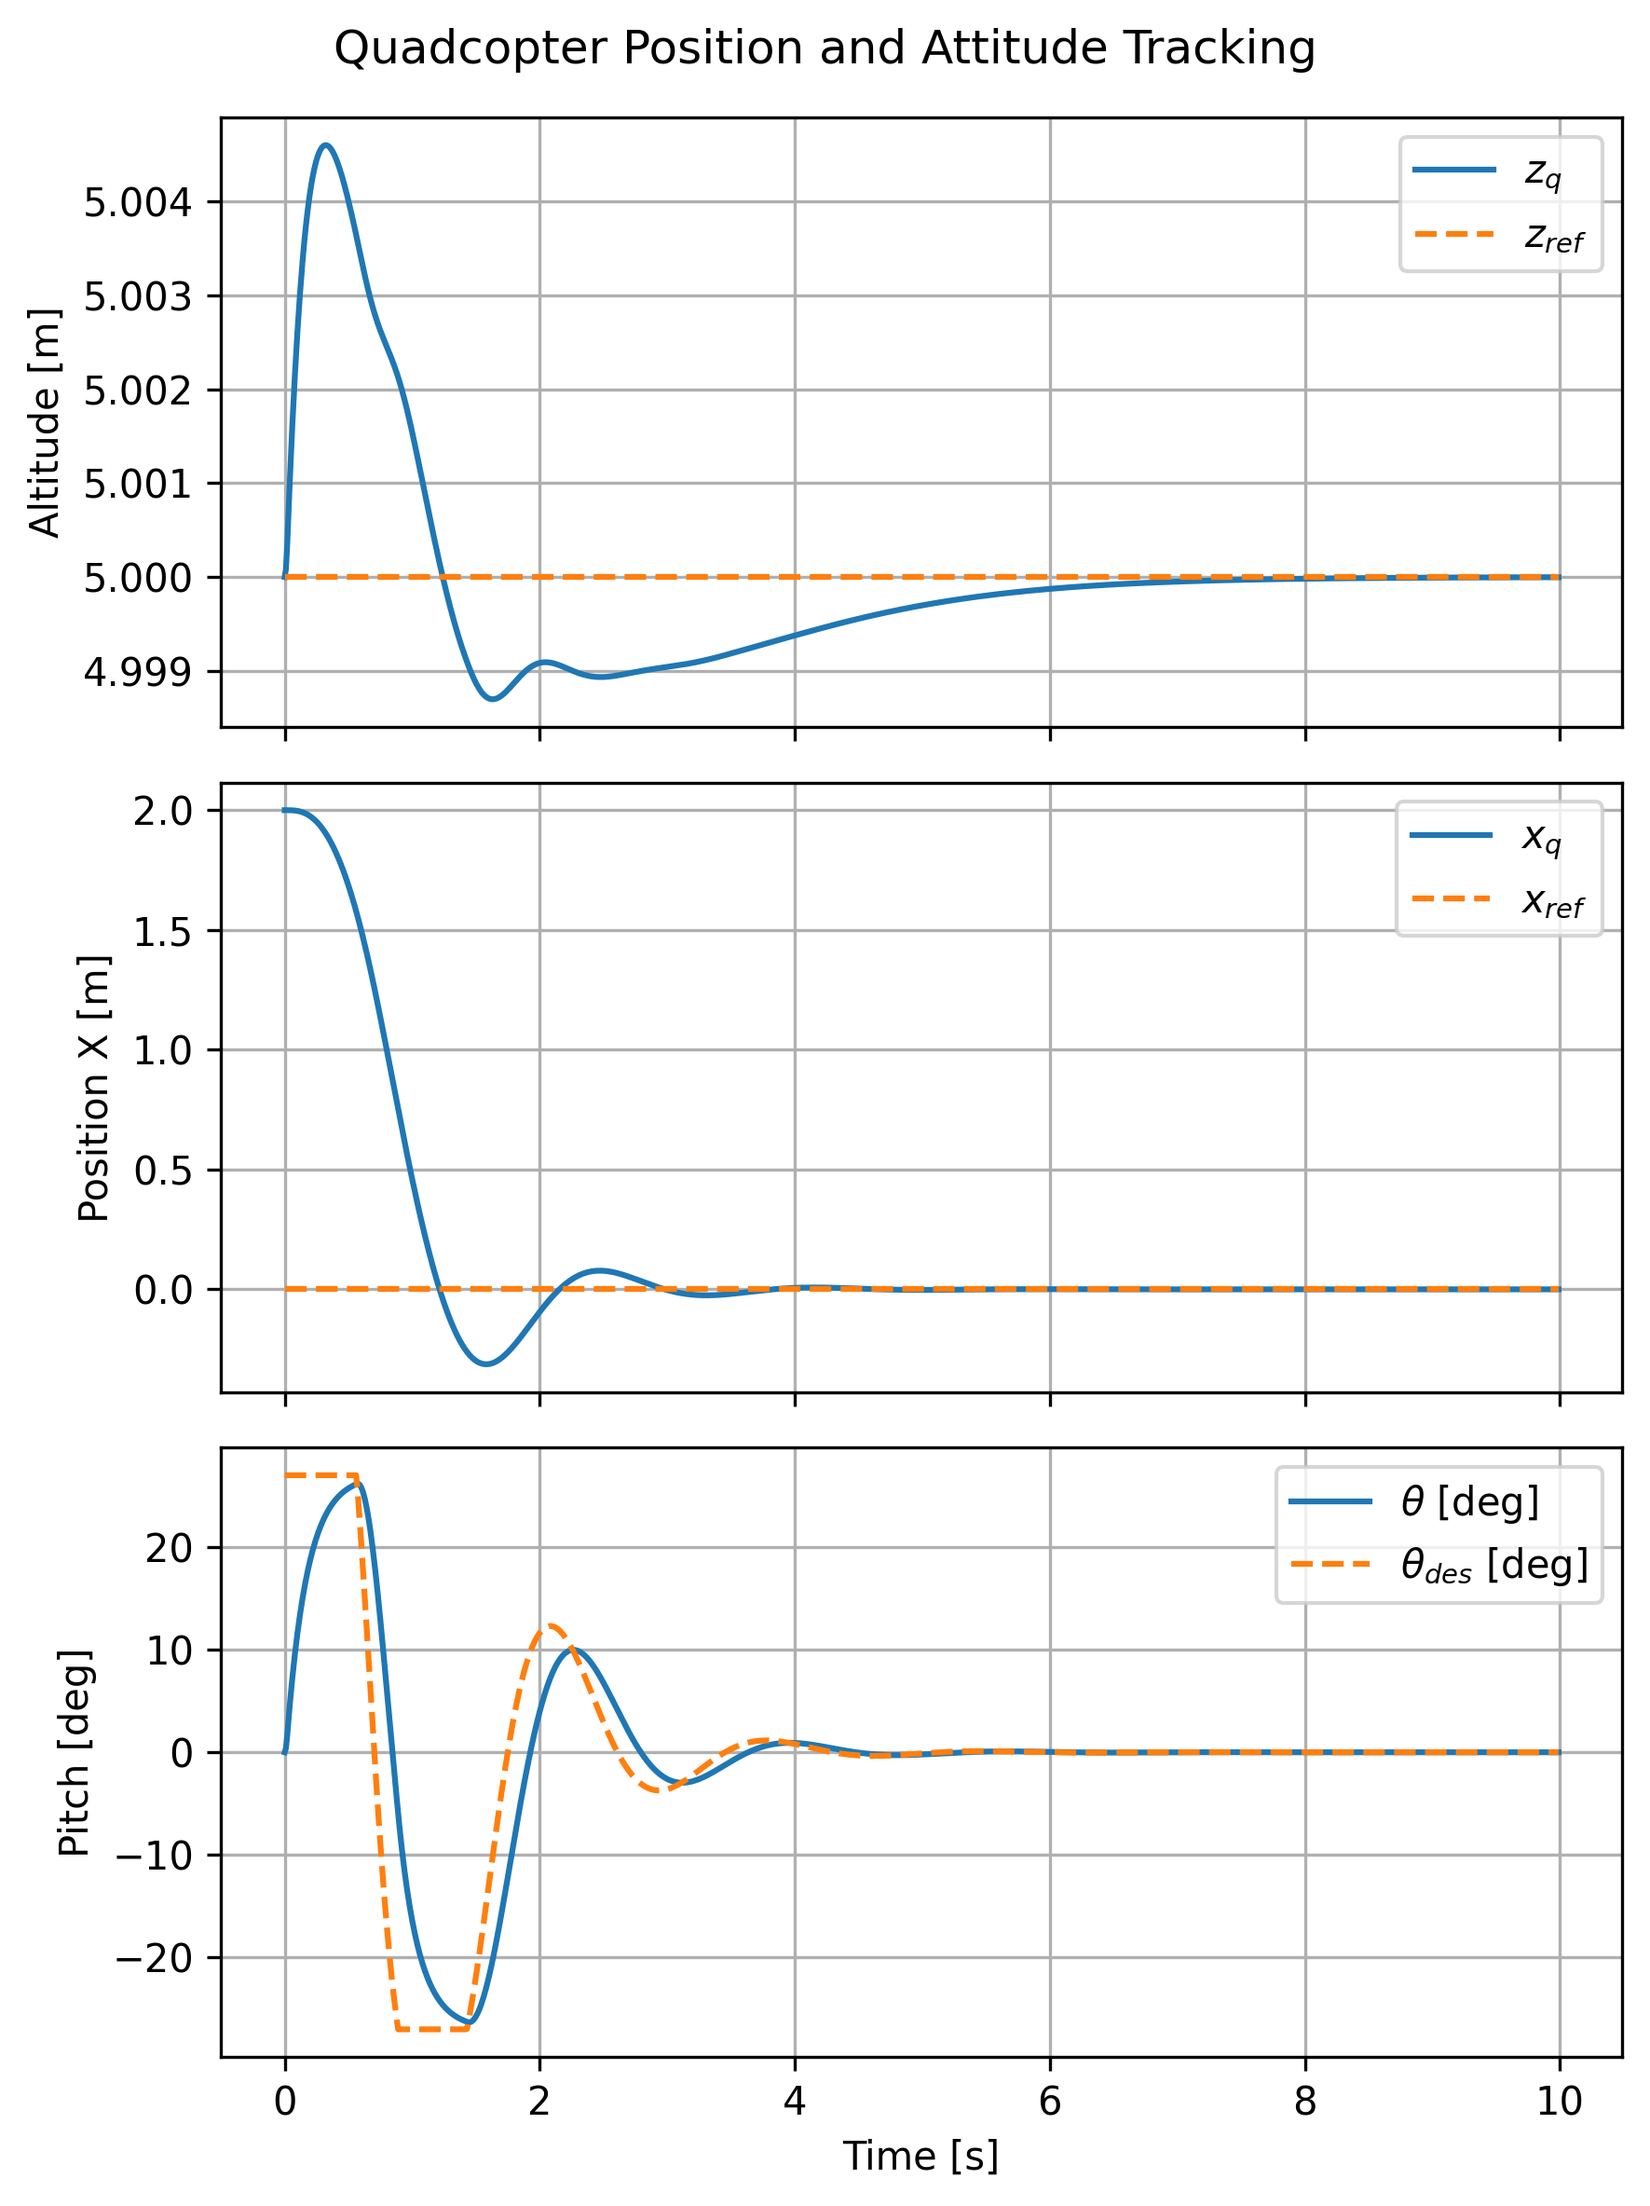
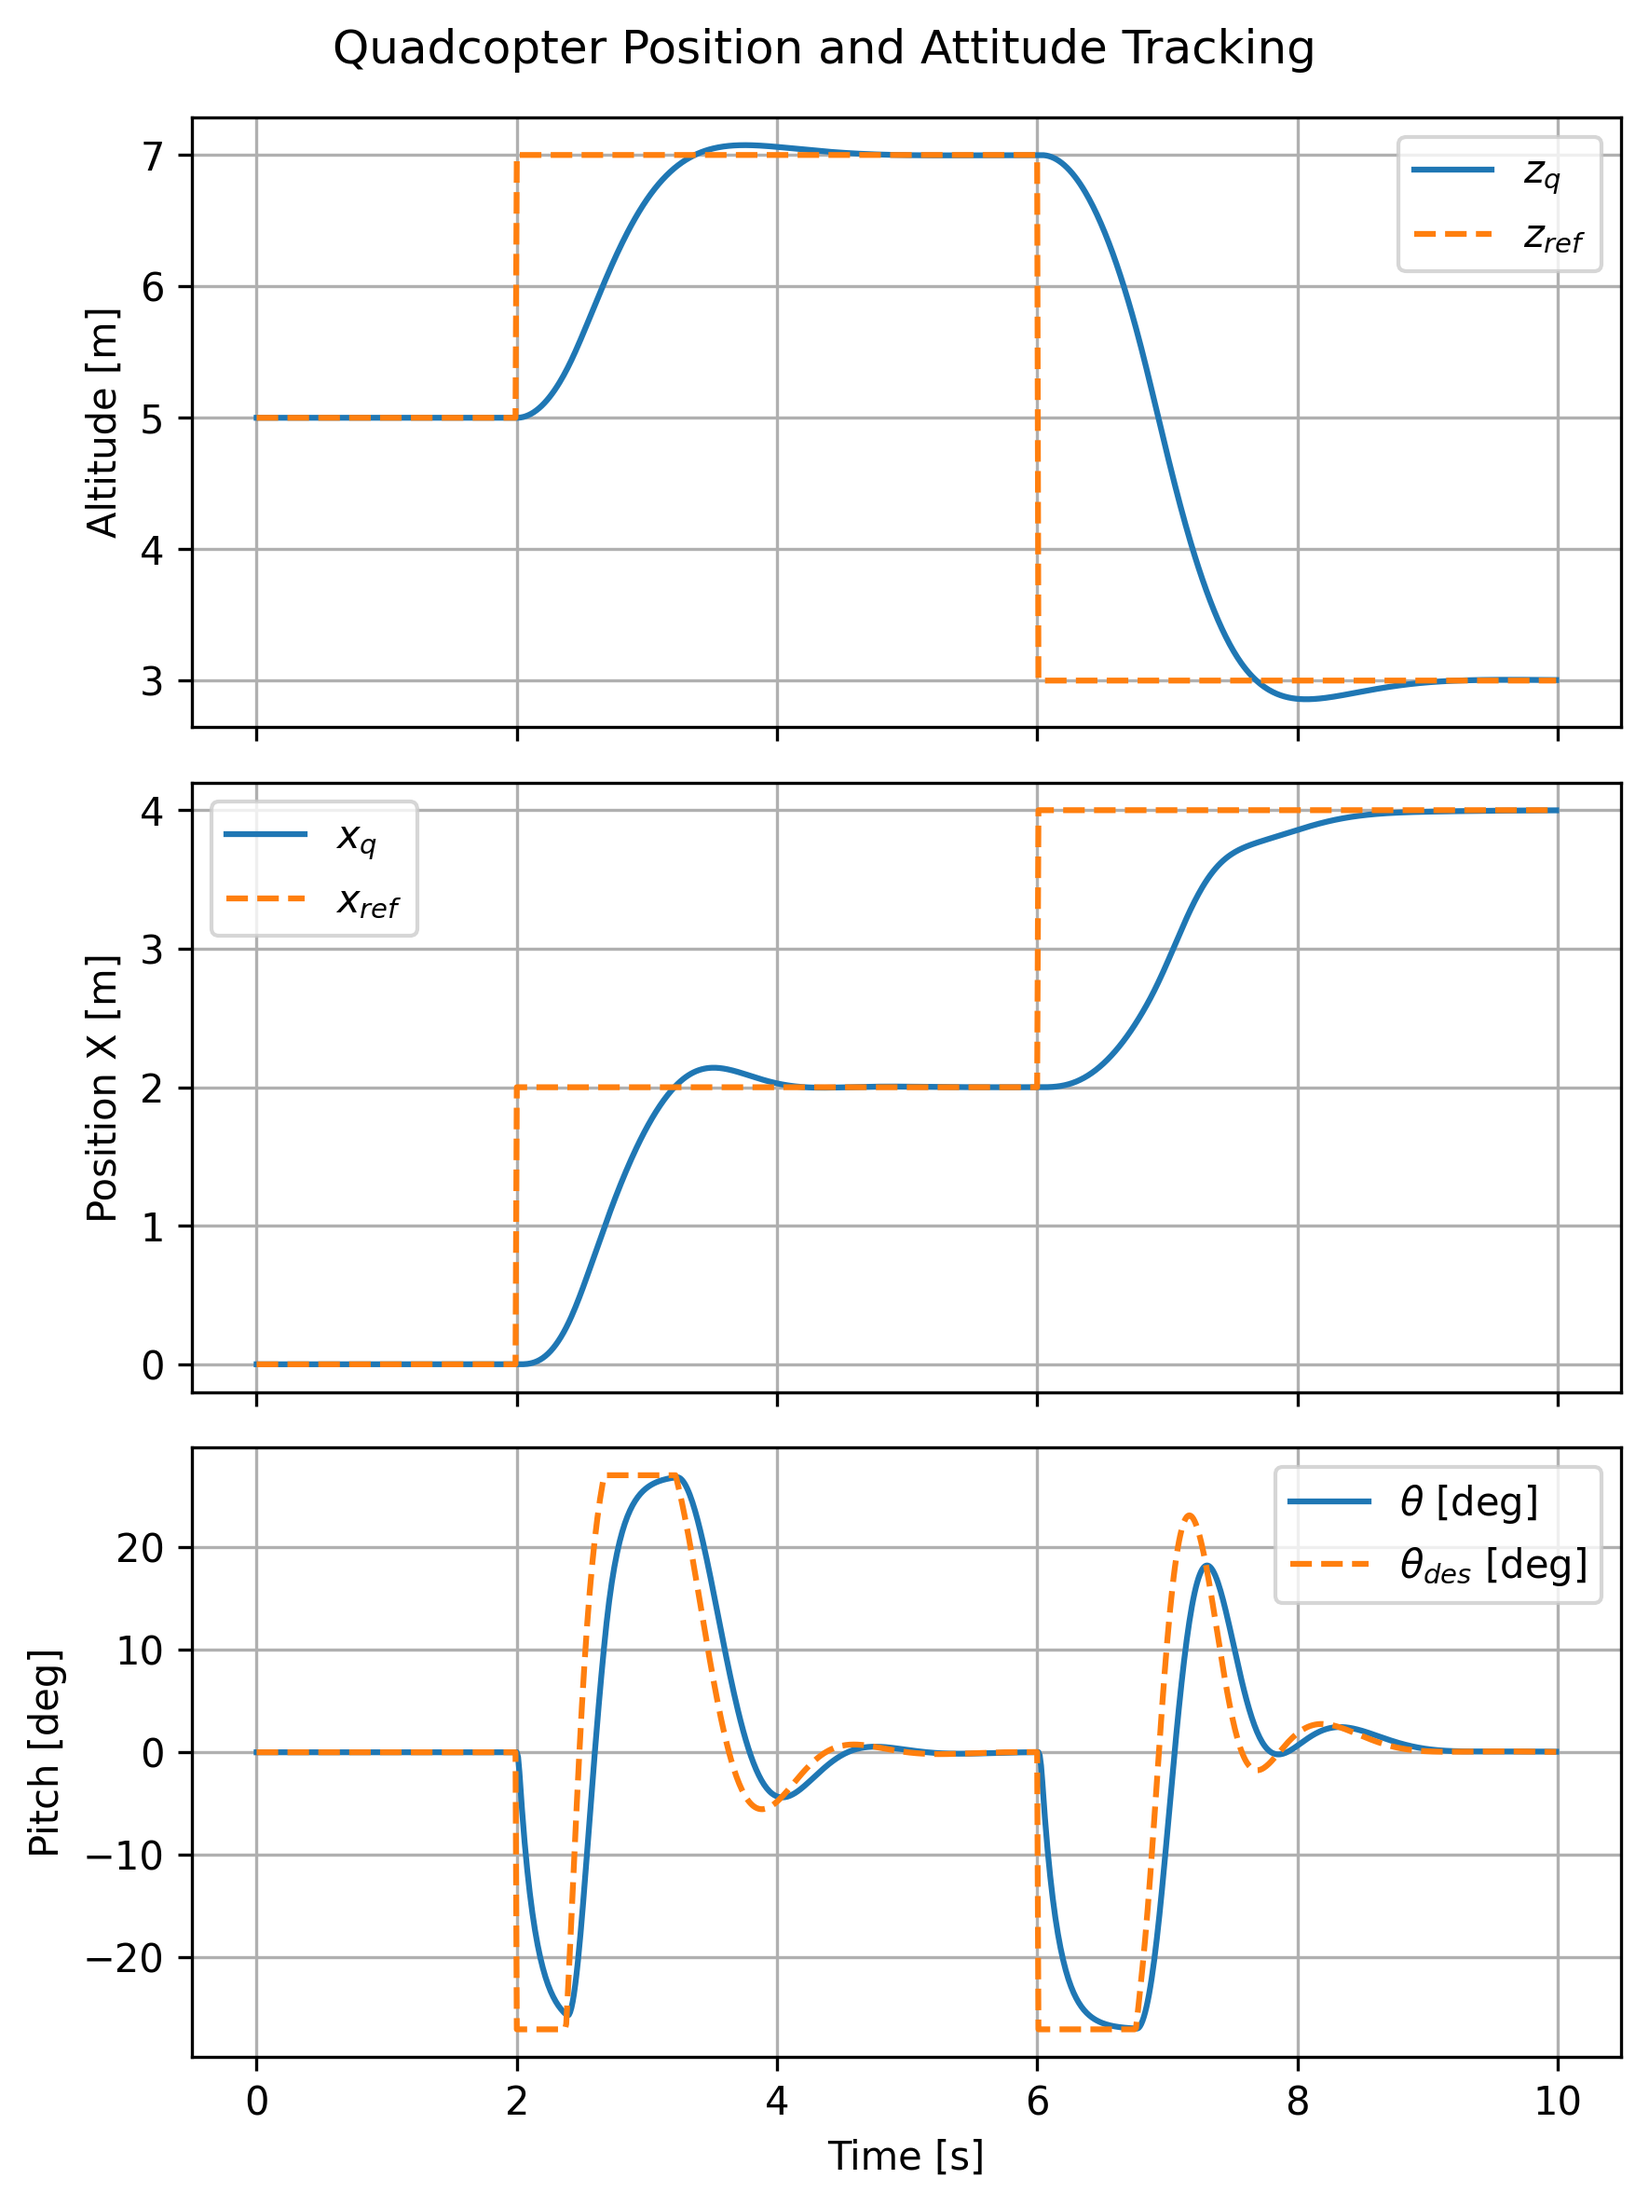
add step change to sim and update gains

diff --git a/sim/simulation.py b/sim/simulation.py
@@ -20,7 +20,7 @@ def rk4_step(func, state, control, dt, params):
 def run_simulation(params, T, dt):
     # Initial state 
     state = np.array([
-        2.0, #x_q
+        0.0, #x_q
         5.0, #z_q
         0.0, #theta
         0.0, #x_q_dot
@@ -79,7 +79,13 @@ def run_simulation(params, T, dt):
     for t in time:
         # Unpack states
         x_q, z_q, theta, xdot, zdot, thetadot, l, phi, ldot, phidot = state
-
+        
+        if t >= 2 and t <= 6:
+            x_ref = 2.0
+            z_ref = 7.0
+        elif t > 6:
+            x_ref = 4.0
+            z_ref = 3.0
         # --- Position control ---
         # a_x_swing = phi_controller.update(0.0 - phi, dt)
         # a_x_des = x_controller.update(x_ref - x_q, dt) + a_x_swing
